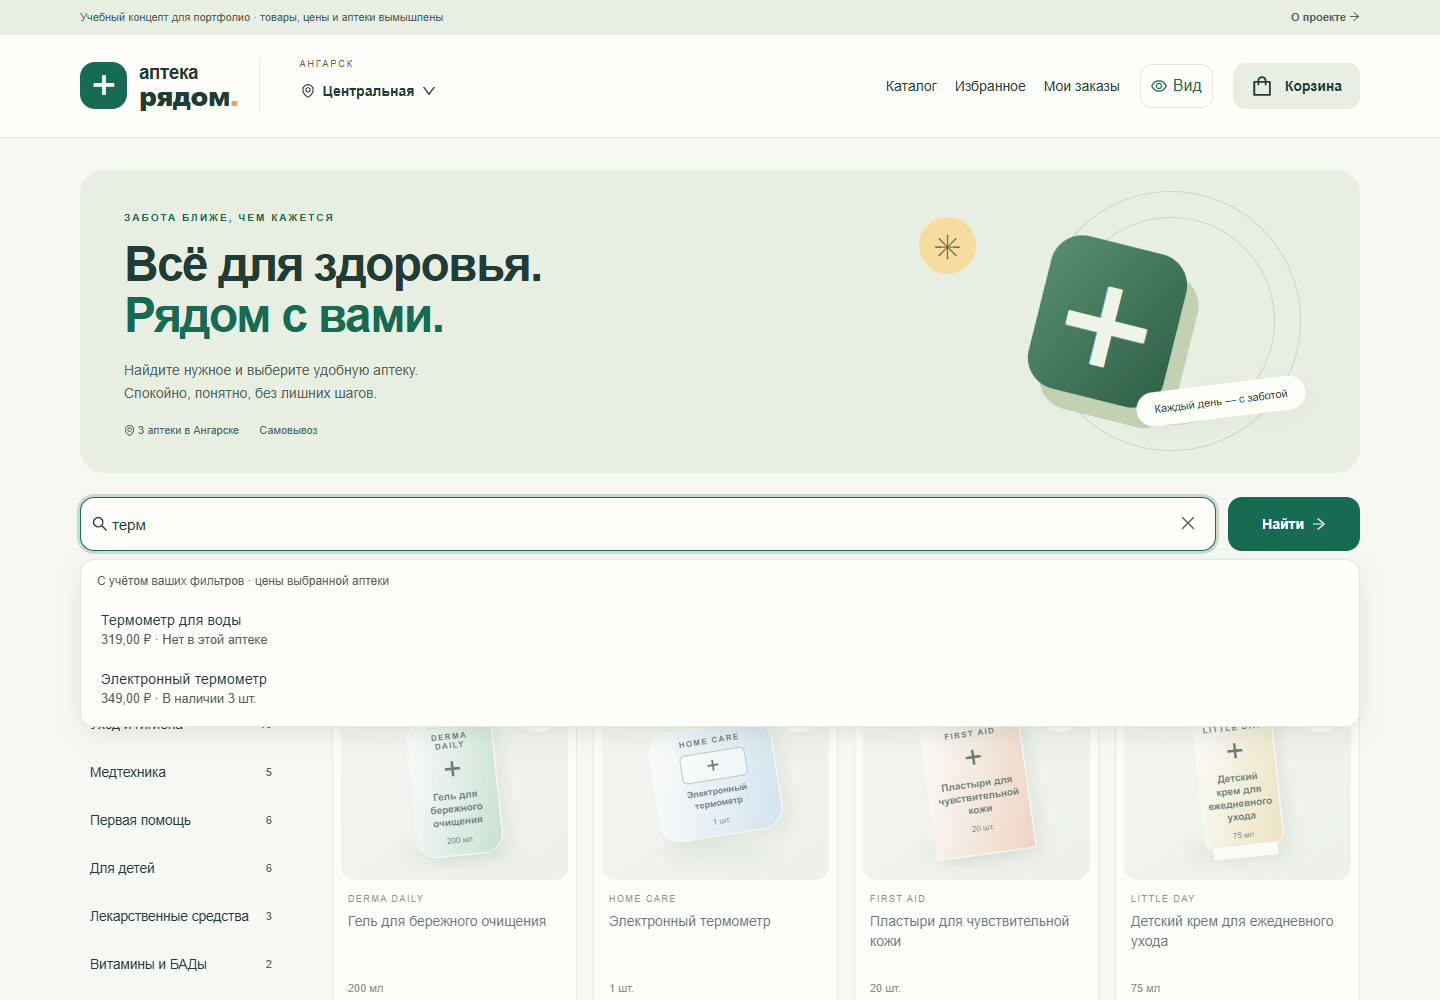
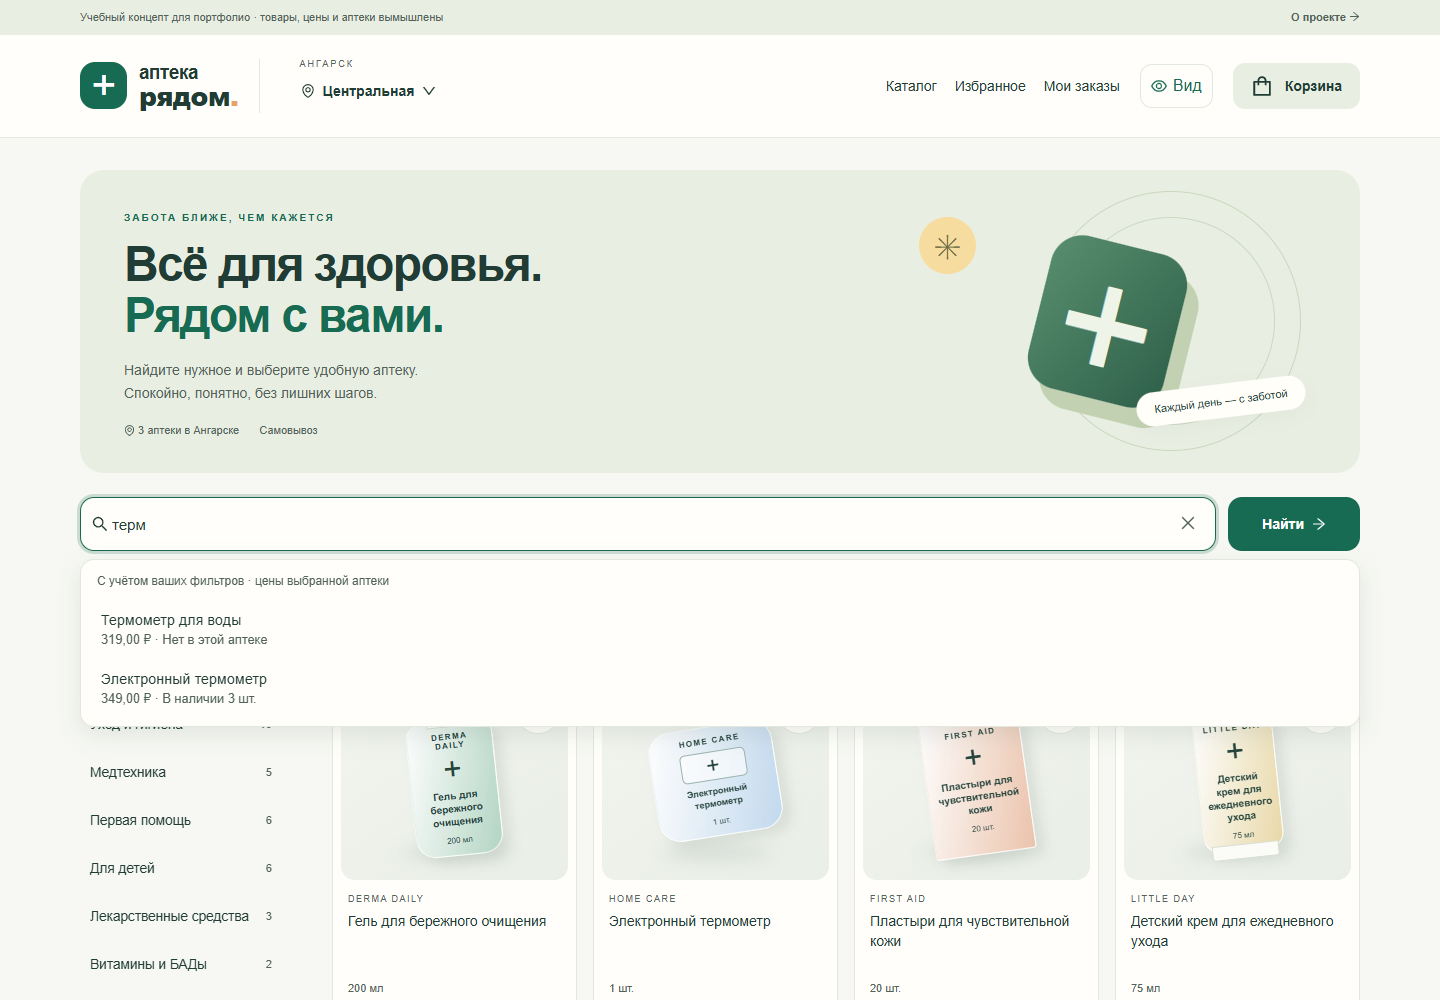
Wait for catalog readiness before auditing search suggestions

diff --git a/CONTEXT.md b/CONTEXT.md
@@ -4,7 +4,7 @@
 
 Пользователь поручил продолжить улучшения. Локально реализованы SearchField (combobox/listbox, ArrowUp/Down, Escape, Enter, явное исправление одной опечатки, до5 товаров, фильтры/выбранная аптека), отмена debounce перед router.push и PharmacyOffers со всеми тремя ценами/остатками. Выбор использует существующий PharmacyPicker/ленивый PharmacyDialog с предвыбранной точкой и данными товара, подтверждением и сохранением корзины. Все три кнопки остаются в DOM после смены точки для возврата фокуса. История запросов не хранится; настоящих медицинских рекомендаций нет. Стек/зависимости сохранены. Сравнение характеристик медтехники пока не реализуется.
 
-Прошли финальные typecheck/lint/build и47unit/integration. Полный70E2E прошёл; после финального ограничения popup по visualViewport/нижней навигации и семантической DIV-обёртки дополнительно прошли12адресных desktop/mobile проверок, включая320/200/axe, touch, бюджетJS и геометрию. Снимки docs/screenshots/discovery обновлены и проверены. Дальше push, CI/Pages, внешний контроль и новые замеры. Актуальный опубликованный runtime пока091ce0d; новые функции локальны до успешного deployment. Свой постоянный сервер не запущен: E2E управляет временным3100. Этот блок заменить итоговым после завершения.
+Прошли финальные typecheck/lint/build и47unit/integration. Полный70E2E прошёл; после финального ограничения popup по visualViewport/нижней навигации и семантической DIV-обёртки дополнительно прошли12адресных desktop/mobile проверок, включая320/200/axe, touch, бюджетJS и геометрию. Снимки docs/screenshots/discovery обновлены и проверены. 3bb0318 отправлен в master. Quality42367547864 success; Pages42367547606 остановился на69/70 из-за contrast audit во время debounce/обновления выдачи. Тест теперь ждёт URL, фактическую выдачу, enabled и aria-busy=false, затем finite animations; анимации/контраст не отключались. После этого8новых desktop/mobile E2E прошли. Далее повторный CI/Pages, внешний контроль и новые замеры. Актуальный опубликованный runtime пока091ce0d; новые функции локальны до успешного deployment. Свой постоянный сервер не запущен: E2E управляет временным3100. Этот блок заменить итоговым после завершения.
 
 ## Финальный мобильный UX-разбор завершён — 7 ноября 2026
 

diff --git a/docs/DISCOVERY-UX.md b/docs/DISCOVERY-UX.md
@@ -19,7 +19,7 @@
 
 ## Проверки и публикация
 
-Локально прошли typecheck/lint/build, 47 unit/integration и полный набор70 E2E. После финальной корректировки геометрии подсказок повторены12 адресных desktop/mobile E2E: новые сценарии, бюджетJS и геометрия. Снимки 390/1440 px и320px/200% проверены. Публикация и внешний контроль в работе; прежние баллы Lighthouse не подставляются вместо новой версии.
+Локально прошли typecheck/lint/build, 47 unit/integration и полный набор70 E2E. После финальной корректировки геометрии подсказок повторены12 адресных desktop/mobile E2E: новые сценарии, бюджетJS и геометрия. Снимки 390/1440 px и320px/200% проверены. Первый Pages CI остановился на69/70: contrast audit начинался до завершения debounce/обновления выдачи. Добавлено ожидание URL, ожидаемого результата, enabled и aria-busy=false перед finite animations/axe; проверка контраста и анимации сохранены. После исправления8новых desktop/mobile тестов прошли. Повторная публикация и внешний контроль в работе; прежние баллы Lighthouse не подставляются вместо новой версии.
 
 Сценарии проверяют клавиатуру, touch-выбор исправления, отмену, фильтры, ошибку каталога, переход без отложенного изменения URL, сохранение корзины/фокуса и 320px/200%/axe. Снимки сохраняются в docs/screenshots/discovery.
 
